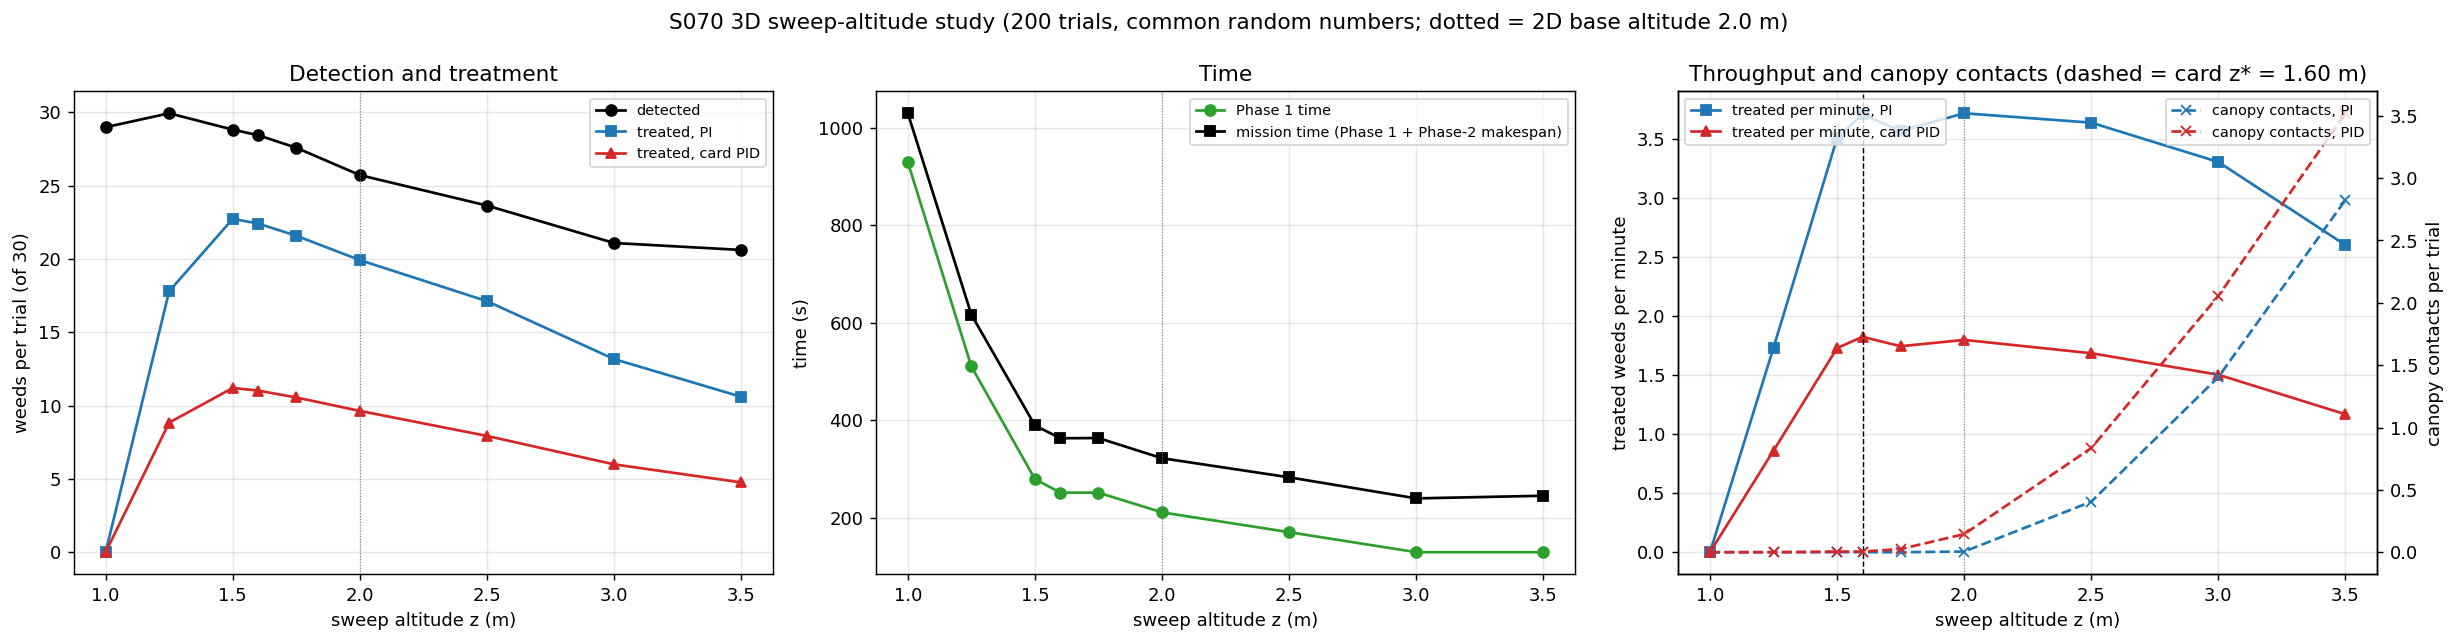
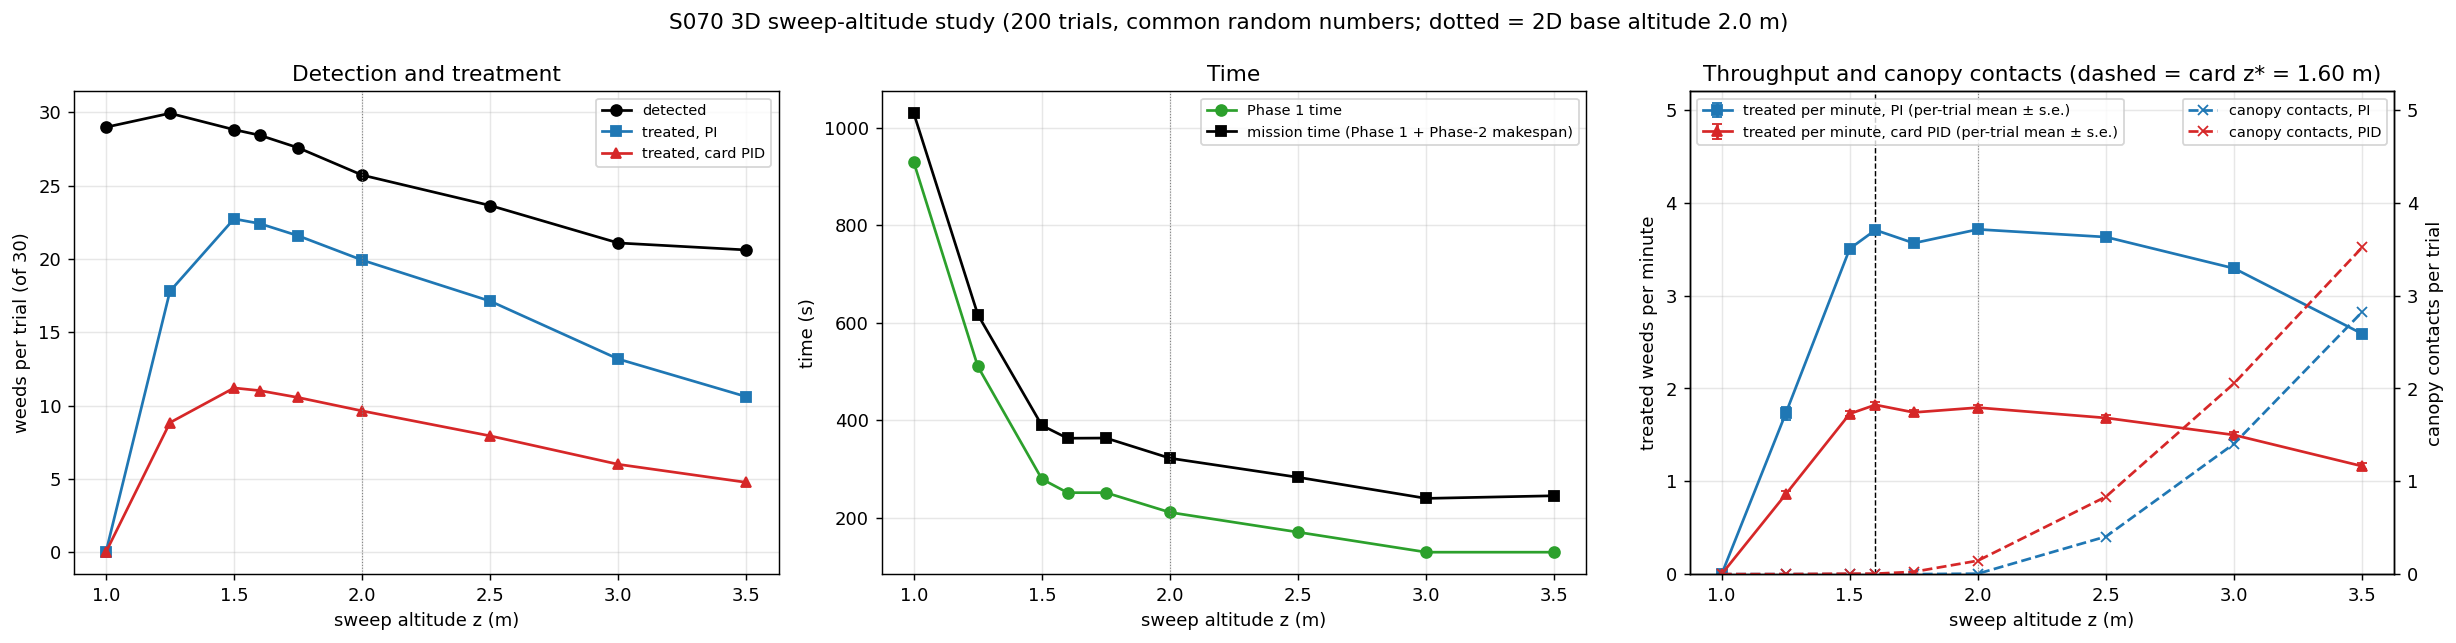
Fix S070 3D Swarm Weeding: address review follow-ups

diff --git a/src/04_industrial_agriculture/3d/s070_3d_swarm_weeding.py b/src/04_industrial_agriculture/3d/s070_3d_swarm_weeding.py
@@ -451,14 +451,19 @@ def plot_altitude_sweep(trials, out_dir):
     ax.set_title('Time')
     ax.legend(fontsize=8)
     ax = axes[2]
-    ax.plot(zg, 60 * oki / tm, 's-', color='tab:blue', label='treated per minute, PI')
-    ax.plot(zg, 60 * okp / tm, '^-', color='tab:red', label='treated per minute, card PID')
+    for key, mk, col, lab in (('pi', 's-', 'tab:blue', 'PI'), ('pid', '^-', 'tab:red', 'card PID')):
+        thr = [60 * _agg(trials, z, lambda r: r[key]['ok'].sum()) / _agg(trials, z, lambda r: r['t1'] + r['mk3'])
+               for z in zg]
+        ax.errorbar(zg, [v.mean() for v in thr], yerr=[v.std(ddof=1) / math.sqrt(v.size) for v in thr],
+                    fmt=mk, color=col, capsize=3, label=f'treated per minute, {lab} (per-trial mean ± s.e.)')
     ax2 = ax.twinx()
     ax2.plot(zg, sti, 'x--', color='tab:blue', label='canopy contacts, PI')
     ax2.plot(zg, stp, 'x--', color='tab:red', label='canopy contacts, PID')
     ax2.set_ylabel('canopy contacts per trial')
+    ax2.set_ylim(0, 5.2)
     ax.set_xlabel('sweep altitude z (m)')
     ax.set_ylabel('treated weeds per minute')
+    ax.set_ylim(0, 5.2)                                # room for the legends above the curves
     zz, rc, rp = card_zstar()
     ax.axvline(zz[np.argmax(rc)], color='k', ls='--', lw=0.8)
     ax.set_title(f'Throughput and canopy contacts (dashed = card z* = {zz[np.argmax(rc)]:.2f} m)')
@@ -546,7 +551,7 @@ def report(trials):
           f'-> {N_WEEDS * p_card:.1f} treated')
     print(f'  Sweep altitude study ({N_TRIALS} trials, common random numbers):')
     print('    z (m) | passes | v (m/s) | Phase 1 (s) | detected | sigma_z (m) | treated PID / PI | '
-          'canopy contacts PID / PI | mission (s) | treated/min PID / PI | 3D vs 2D Hungarian')
+          'canopy contacts PID / PI | mission (s) | treated/min PID / PI (per-trial mean) | 3D vs 2D Hungarian')
     rows = {}
     for z in Z_GRID:
         det = _agg(trials, z, lambda r: len(r['idx']))
@@ -561,21 +566,36 @@ def report(trials):
         rows[z] = dict(det=det, okp=okp, oki=oki, stp=stp, sti=sti, mis=mis)
         print(f"    {z:4.2f} | {n_passes(z)} | {v_sweep(z):.2f} | {trials[0]['per_z'][z]['t1']:7.1f} | "
               f"{_ms(det)} | {sigma_z(z):.4f} | {_ms(okp)} / {_ms(oki)} | {_ms(stp)} / {_ms(sti)} | "
-              f"{_ms(mis, 1)} | {60 * okp.mean() / mis.mean():.3f} / {60 * oki.mean() / mis.mean():.3f} | "
+              f"{_ms(mis, 1)} | {np.mean(60 * okp / mis):.3f} / {np.mean(60 * oki / mis):.3f} | "
               f"same assignment {int(same.sum())}/{N_TRIALS}, distance 3D {d3.mean():.1f} vs 2D "
               f"{d2.mean():.1f} m")
     best_ok = max(Z_GRID, key=lambda z: rows[z]['oki'].mean())
-    best_rate = max(Z_GRID, key=lambda z: rows[z]['oki'].mean() / rows[z]['mis'].mean())
-    print(f'  Best altitude by treated weeds (PI): {best_ok} m; by treated per minute (PI): {best_rate} m')
-    for zc in sorted({z_card, best_ok, best_rate} - {Z_BASE}):
-        if zc not in rows:
-            continue
+    print(f'  Most weeds treated (PI, mean per trial): {best_ok} m')
+    se = lambda v: np.std(v, ddof=1) / math.sqrt(len(v))       # noqa: E731
+    for name, key in (('PI', 'oki'), ('card PID', 'okp')):
+        print(f'  Per-trial throughput (treated per minute of mission, {name}); head-to-head against the '
+              f'2D base altitude {Z_BASE} m on the same trials: z -> mean ± s.e.; higher / lower / tied '
+              f'trials; mean difference ± s.e.')
+        b = 60 * rows[Z_BASE][key] / rows[Z_BASE]['mis']
+        for z in Z_GRID:
+            c = 60 * rows[z][key] / rows[z]['mis']
+            line = f'    {z:4.2f} m: {c.mean():.3f} ± {se(c):.3f}'
+            if z != Z_BASE:
+                dd = c - b
+                line += (f'; {int(np.sum(dd > 0))} / {int(np.sum(dd < 0))} / {int(np.sum(dd == 0))}; '
+                         f'{dd.mean():+.3f} ± {se(dd):.3f}')
+            print(line)
+    for zc in sorted({z_card, best_ok} - {Z_BASE}):
         b, c = rows[Z_BASE], rows[zc]
         print(f"  z = {zc} m vs 2D base altitude {Z_BASE} m (per trial, CRN): treated PI more in "
               f"{int(np.sum(c['oki'] > b['oki']))}, fewer in {int(np.sum(c['oki'] < b['oki']))}/{N_TRIALS} "
               f"(mean diff {np.mean(c['oki'] - b['oki']):+.2f}); detected more in "
               f"{int(np.sum(c['det'] > b['det']))}, fewer in {int(np.sum(c['det'] < b['det']))}; "
               f"mission time diff {np.mean(c['mis'] - b['mis']):+.1f} s")
+    zr = np.concatenate([t['zweed'] / t['hw'] for t in trials])
+    print(f'  Weed height below the canopy (card geometry): z_weed / h = {zr.mean():.3f} ± {zr.std():.3f}; '
+          f'it is used only in the 3D plots - no result above depends on it (treatment targets the canopy '
+          f'top above the weed)')
     rp_ = np.concatenate([t['per_z'][z_card]['pid']['rms'] for t in trials])
     ri_ = np.concatenate([t['per_z'][z_card]['pi']['rms'] for t in trials])
     print(f'  Hover at z = {z_card} m ({rp_.size} hovers): 3D RMS card PID {rp_.mean():.4f} m '

diff --git a/outputs/04_industrial_agriculture/3d/s070_3d_swarm_weeding/README.md b/outputs/04_industrial_agriculture/3d/s070_3d_swarm_weeding/README.md
@@ -72,17 +72,17 @@ The script imports the 2D base module for the Hungarian assignment and the neare
 
 ### Sweep-altitude study (200 trials, means ± std per trial)
 
-| z (m) | Passes | v (m/s) | Phase 1 | Detected | $\sigma_z$ | Treated PID / **PI** | Canopy contacts PID / PI | Mission | Treated/min PID / **PI** |
+| z (m) | Passes | v (m/s) | Phase 1 | Detected | $\sigma_z$ | Treated PID / **PI** | Canopy contacts PID / PI | Mission | Treated/min PID / **PI** (per-trial mean) |
 |---|---|---|---|---|---|---|---|---|---|
 | 1.00 | 9 | 0.40 | 929.6 s | 28.98 ± 0.94 | 0.0125 m | 0 / 0 (all missions invalid) | 0 / 0 | 1030.1 s | 0 / 0 |
-| 1.25 | 8 | 0.65 | 510.3 s | 29.93 ± 0.26 | 0.0195 m | 8.84 / 17.80 ± 10.44 | 0 / 0 | 616.6 s | 0.860 / 1.732 |
-| **1.50** | 6 | 0.90 | 279.0 s | 28.82 ± 1.11 | 0.0281 m | 11.20 / **22.73 ± 2.26** | 0.01 / 0 | 389.1 s | 1.727 / 3.505 |
-| 1.60 (card z\*) | 6 | 1.00 | 251.1 s | 28.43 ± 1.21 | 0.0320 m | 11.02 / 22.41 ± 2.28 | 0.01 / 0 | 362.9 s | **1.822** / 3.706 |
-| 1.75 | 6 | 1.00 | 251.1 s | 27.58 ± 1.52 | 0.0383 m | 10.55 / 21.58 ± 2.40 | 0.03 / 0 | 363.3 s | 1.743 / 3.564 |
-| **2.00 (2D base)** | 5 | 1.00 | 210.7 s | 25.71 ± 1.94 | 0.0500 m | 9.63 / 19.92 ± 2.54 | 0.14 / 0.01 | 321.9 s | 1.796 / **3.714** |
-| 2.50 | 4 | 1.00 | 170.0 s | 23.64 ± 2.26 | 0.0781 m | 7.93 / 17.12 ± 2.68 | 0.83 / 0.41 | 282.6 s | 1.683 / 3.634 |
-| 3.00 | 3 | 1.00 | 128.9 s | 21.09 ± 2.55 | 0.1125 m | 5.99 / 13.17 ± 2.78 | 2.06 / 1.41 | 239.4 s | 1.502 / 3.301 |
-| 3.50 | 3 | 1.00 | 128.9 s | 20.61 ± 2.62 | 0.1531 m | 4.76 / 10.60 ± 2.75 | 3.52 / 2.83 | 244.8 s | 1.167 / 2.598 |
+| 1.25 | 8 | 0.65 | 510.3 s | 29.93 ± 0.26 | 0.0195 m | 8.84 / 17.80 ± 10.44 | 0 / 0 | 616.6 s | 0.860 / 1.730 |
+| **1.50** | 6 | 0.90 | 279.0 s | 28.82 ± 1.11 | 0.0281 m | 11.20 / **22.73 ± 2.26** | 0.01 / 0 | 389.1 s | 1.727 / 3.506 |
+| 1.60 (card z\*) | 6 | 1.00 | 251.1 s | 28.43 ± 1.21 | 0.0320 m | 11.02 / 22.41 ± 2.28 | 0.01 / 0 | 362.9 s | **1.823** / 3.706 |
+| 1.75 | 6 | 1.00 | 251.1 s | 27.58 ± 1.52 | 0.0383 m | 10.55 / 21.58 ± 2.40 | 0.03 / 0 | 363.3 s | 1.742 / 3.565 |
+| **2.00 (2D base)** | 5 | 1.00 | 210.7 s | 25.71 ± 1.94 | 0.0500 m | 9.63 / 19.92 ± 2.54 | 0.14 / 0.01 | 321.9 s | 1.794 / **3.713** |
+| 2.50 | 4 | 1.00 | 170.0 s | 23.64 ± 2.26 | 0.0781 m | 7.93 / 17.12 ± 2.68 | 0.83 / 0.41 | 282.6 s | 1.682 / 3.631 |
+| 3.00 | 3 | 1.00 | 128.9 s | 21.09 ± 2.55 | 0.1125 m | 5.99 / 13.17 ± 2.78 | 2.06 / 1.41 | 239.4 s | 1.499 / 3.293 |
+| 3.50 | 3 | 1.00 | 128.9 s | 20.61 ± 2.62 | 0.1531 m | 4.76 / 10.60 ± 2.75 | 3.52 / 2.83 | 244.8 s | 1.163 / 2.588 |
 
 **Sweep clearance** above the highest canopy under the passes (minimum / mean over the trials; trials below 0.2 m / below 0):
 
@@ -91,7 +91,21 @@ The script imports the 2D base module for the Hungarian assignment and the neare
 | Min / mean | −0.244 / +0.010 m | +0.009 / +0.261 m | +0.268 / +0.514 m | +0.368 / +0.614 m | +0.756 / +1.017 m | +2.256 / +2.530 m |
 | Trials < 0.2 m / < 0 | 200 / 81 | 50 / 0 | 0 / 0 | 0 / 0 | 0 / 0 | 0 / 0 |
 
-**Head-to-head against the 2D base altitude (2 m), per trial with CRN, PI hover:**
+**Throughput against the 2D base altitude (2 m), per trial with CRN** (treated per minute of mission; mean ± s.e.; trials higher / lower than at 2 m; mean difference ± s.e.):
+
+| z (m) | PI | vs 2 m (PI) | card PID | vs 2 m (card PID) |
+|---|---|---|---|---|
+| 1.50 | 3.506 ± 0.025 | 47 / 153; −0.208 ± 0.022 | 1.727 ± 0.029 | 76 / 124; −0.066 ± 0.016 |
+| 1.60 | 3.706 ± 0.026 | **98 / 102; −0.007 ± 0.022** | 1.823 ± 0.030 | 107 / 93; +0.030 ± 0.016 |
+| 1.75 | 3.565 ± 0.027 | 61 / 139; −0.148 ± 0.021 | 1.742 ± 0.030 | 71 / 129; −0.052 ± 0.016 |
+| 2.00 | 3.713 ± 0.032 | — | 1.794 ± 0.033 | — |
+| 2.50 | 3.631 ± 0.037 | 83 / 117; −0.082 ± 0.031 | 1.682 ± 0.036 | 82 / 118; −0.111 ± 0.023 |
+| 3.00 | 3.293 ± 0.045 | 52 / 148; −0.420 ± 0.043 | 1.499 ± 0.037 | 46 / 154; −0.295 ± 0.030 |
+| 3.50 | 2.588 ± 0.044 | 6 / 194; −1.125 ± 0.044 | 1.163 ± 0.032 | 8 / 192; −0.631 ± 0.030 |
+
+(1.0 m: 0 / 200 and 1.25 m: 0 / 200 with PI, since those missions are invalid or slow.)
+
+**Treated weeds against the 2D base altitude (2 m), per trial with CRN, PI hover:**
 
 - z = 1.5 m: more weeds treated in 183/200 trials, fewer in 5 (+2.81 per trial). Detections are higher in 174 trials and lower in 5. The mission is 67.3 s longer.
 - z = 1.6 m (card z\*): more treated in 179/200, fewer in 7 (+2.49). Detections are higher in 171 and lower in 7. The mission is 41.0 s longer.
@@ -109,12 +123,12 @@ The script imports the 2D base module for the Hungarian assignment and the neare
 ### Key findings
 
 - **Sweep altitude is a real trade-off, and the 2D base's implicit 2 m is not the best height for weeds treated.** Flying lower finds more weeds: 28.82 at 1.5 m against 25.71 at 2 m, from more passes and $P$ → 1. It also measures the canopy better ($\sigma_z$ 0.028 vs 0.050 m). Treated weeds therefore peak at **1.5 m (22.73 per trial with PI, against 19.92 at 2 m; better in 183/200 trials)**, at the cost of a 67.3 s longer mission. Above 2 m every term gets worse: fewer detections, larger depth error, and canopy contacts appear (2.83 per trial at 3.5 m with PI). Treated weeds fall to 10.60 per trial.
-- **Throughput is flat around 1.6–2.5 m, and the 2D base's 2 m is the best grid point for it** (3.714 weeds/min with PI, against 3.706 at 1.6 m and 3.634 at 2.5 m). Low sweeps are slow: below 1.6 m the speed limit bites, and 1.0 m takes 929.6 s for Phase 1 alone.
-- **The card's z\* criterion has the right answer for the wrong reason.** $\arg\max P\,v$ picks 1.60 m, the kink where the speed limit stops binding. It ignores that the footprint grows with z; counting the passes moves the optimum to 2.97 m. Neither version includes Phase 2 or the depth error. In the full simulation 1.6 m is close to the best on both criteria: 22.41 treated against the best 22.73, and 3.706/min against the best 3.714/min.
+- **Throughput is tied between 1.6 m and 2 m, and drops away on both sides.** With PI, 1.6 m against 2 m is higher in 98 and lower in 102 of 200 trials, a mean difference of −0.007 ± 0.022 weeds/min (s.e.), i.e. a tie. With the card PID it is +0.030 ± 0.016 (107 / 93). At 2.5 m the throughput is slightly lower (−0.082 ± 0.031, higher in only 83/200). At 1.5 m (−0.208 ± 0.022) and 1.75 m (−0.148 ± 0.021) it is clearly lower, as it is at 3.0 m and above. Low sweeps are slow: below 1.6 m the speed limit bites, and 1.0 m takes 929.6 s for Phase 1 alone.
+- **The card's z\* criterion has the right answer for the wrong reason.** $\arg\max P\,v$ picks 1.60 m, the kink where the speed limit stops binding. It ignores that the footprint grows with z; counting the passes moves the optimum to 2.97 m. Neither version includes Phase 2 or the depth error. In the full simulation 1.6 m is close to the best on both criteria: 22.41 treated against the best 22.73 (at 1.5 m), and a throughput statistically tied with 2 m (3.706 ± 0.026 vs 3.713 ± 0.032 per minute).
 - **The card's search range starts in the crop.** A 1.0 m sweep clears the tallest canopy by less than 0.2 m in all 200 fields and touches it in 81. At 1.25 m, 50 of 200 missions fail the 0.2 m clearance. The card's $P_{detect}$ also exceeds 1 below 1.445 m (1.202 at 1.0 m) and is clipped.
 - **Canopy contacts are caused by the stereo depth error.** Every contact coincides with a canopy estimate more than 0.1 m too low (565/565 at 3.5 m). Because $\sigma_z$ grows as $z^2$, contacts appear above 2 m. The zero-contact result at low altitude depends on the assumption that the descent ends exactly on its target. With a 0.3 m vertical arrival scatter, contacts rise to 6.98 / 6.33 / 6.80 per trial at 1.6 / 2.0 / 3.5 m, and treated weeds fall to 14.39 / 12.68 / 6.75 (PI). The ranking of these three altitudes (1.6 > 2.0 > 3.5 m) holds for every offset tested.
 - **The 3D Hungarian cost changes nothing.** The vertical legs are nearly the same for every weed (the canopy std is only 0.150 m), so the assignment is identical to the 2D one in 196–200 of 200 trials.
-- **Hover accuracy still dominates, as in 2D.** Even at the best altitude only 78.81 % (PI) or 38.77 % (card PID) of the hovers meet the 0.20 m 3D tolerance, because of the 0.3 m horizontal arrival transient (see the 2D S070). The card's closed-form $P_{success}$ = 0.950 (28.5 weeds) is far above the simulated 22.41 (PI) and 11.02 (PID).
+- **Hover accuracy still dominates, as in 2D.** At the card's z\* = 1.6 m only 78.81 % (PI) or 38.77 % (card PID) of the hovers meet the 0.20 m 3D tolerance, because of the 0.3 m horizontal arrival transient (see the 2D S070). The card's closed-form $P_{success}$ = 0.950 (28.5 weeds) is far above the simulated 22.41 (PI) and 11.02 (PID).
 
 ### Figures
 
@@ -155,7 +169,7 @@ The script imports the 2D base module for the Hungarian assignment and the neare
 | $z^* = \arg\max E[N]/T$ with $T \propto 1/v$ | Evaluated (1.60 m), plus the pass-count version (2.97 m) and a full mission simulation over 9 altitudes | The card's rule ignores the footprint and Phase 2. Card corrected. |
 | Search range from 1.0 m | Run, but missions with sweep clearance < 0.2 m are counted as invalid | 1.0 m is inside the canopy in 81/200 fields. Card corrected. |
 | $z_{treat} = h_{canopy} + \Delta h_{clear}$ described as "just above the weed, under the canopy layer" | Treated from 0.2 m above the estimated canopy height, with the stereo error on that estimate | The formula and the descent constraint both keep the drone above the canopy. Card corrected. |
-| Stereo noise on $\hat z_{weed}$ | Applied to the canopy-height estimate that sets $z_{treat}$ | That is the quantity the descent uses; the weed's own height does not enter the card's target. |
+| Stereo noise on $\hat z_{weed}$; weed under the canopy at $z_{weed} \sim \mathcal U(0, h)$ | Stereo noise applied to the canopy-height estimate that sets $z_{treat}$. The weed height is drawn ($z_{weed}/h$ = 0.496 ± 0.289) but used **only in the 3D plots; no result depends on it** | The card's own $z_{treat}$ is the canopy top + 0.2 m, so the weed's height never enters the target, the detection (line of sight is to the canopy) or the success test. |
 | $P_{success}$ via Rayleigh and $\sigma_{hover}^2 = (2\sigma^2 + \sigma_z^2)/(1 + 2K_p/K_d)$ | Simulated 3D hover (RMS over 2 s, canopy contact check) | The formula ignores the arrival transient and uses a 2D distribution; it predicts 28.5 treated against 22.41 / 11.02 simulated. Card corrected. |
 | Straight-line descent if clear, else two segments | Always two segments (transit at z, vertical descent) | Conservative; the card's fallback. |
 | Single seed 42 | 200 trials with common random numbers across altitudes, controllers and costs; z = 2 m reproduces the 2D base's detections | X2, X5. |

diff --git a/scenarios/04_industrial_agriculture/3d/S070_3d_swarm_weeding.md b/scenarios/04_industrial_agriculture/3d/S070_3d_swarm_weeding.md
@@ -18,6 +18,8 @@ In this 3D upgrade three major additions are made:
    Gaussian random field $h_{canopy}(x,y)$. After a weed is detected during the Phase 1 sweep,
    the treating drone must descend to $z_{treat} = h_{canopy}(\mathbf{w}_j) + \Delta h_{clear}$
    (just above the weed), navigate under the canopy layer, and apply herbicide from close range.
+   (Note from the 3D implementation: with the target at the canopy top, the weed's own height below the
+   canopy has no effect on any result; it is drawn and plotted only.)
    (Corrected: this $z_{treat}$ is 0.2 m above the *canopy* over the weed, not just above the weed, and
    the descent constraint below forbids entering the canopy; the implementation treats from 0.2 m above
    the estimated canopy height, with the stereo depth error applied to that estimate.)
@@ -135,7 +137,7 @@ $$z_{sweep}^* = \arg\max_{z \in [1.0,\, 3.5]} \frac{\mathbb{E}[N_{det}(z)]}{T_{s
 
 This can be solved analytically or by a 1D line search over $z$.
 
-> **Correction (3D implementation, 2026-10-24).** This criterion gives $z^* = 1.60$ m (the kink where $v_{sweep}$ reaches $v_{max}$), but it ignores that the footprint $r_s(z)$ grows with $z$, so fewer passes are needed; with $T_{sweep} \propto n_{passes}(z)/v_{sweep}(z)$ the same rate peaks at 2.97 m. Neither accounts for Phase 2 or for the stereo depth error. The lower end of the search range is also infeasible: the canopy reaches about 1.0 m (1.011 m in field 0), so a 1.0 m sweep clears it by less than $\Delta h_{clear}$ in 200/200 simulated fields (and by less than zero in 81/200), and 1.25 m fails the 0.2 m clearance in 50/200. Simulated over 200 fields (PI hover): most weeds treated at 1.5 m (22.73 per field), highest throughput at 2.0 m (3.714 weeds/min; 3.706 at 1.6 m, 3.634 at 2.5 m).
+> **Correction (3D implementation, 2026-10-24).** This criterion gives $z^* = 1.60$ m (the kink where $v_{sweep}$ reaches $v_{max}$), but it ignores that the footprint $r_s(z)$ grows with $z$, so fewer passes are needed; with $T_{sweep} \propto n_{passes}(z)/v_{sweep}(z)$ the same rate peaks at 2.97 m. Neither accounts for Phase 2 or for the stereo depth error. The lower end of the search range is also infeasible: the canopy reaches about 1.0 m (1.011 m in field 0), so a 1.0 m sweep clears it by less than $\Delta h_{clear}$ in 200/200 simulated fields (and by less than zero in 81/200), and 1.25 m fails the 0.2 m clearance in 50/200. Simulated over 200 fields (PI hover): most weeds treated at 1.5 m (22.73 per field). Throughput (treated per minute, per-trial mean) is tied between 1.6 m and 2.0 m (3.706 ± 0.026 vs 3.713 ± 0.032; 1.6 m higher in 98 / lower in 102 trials, difference −0.007 ± 0.022) and lower at 1.5, 1.75 and 2.5 m (2.5 m: −0.082 ± 0.031 against 2.0 m).
 
 ### 3D Hungarian Task Assignment
 
